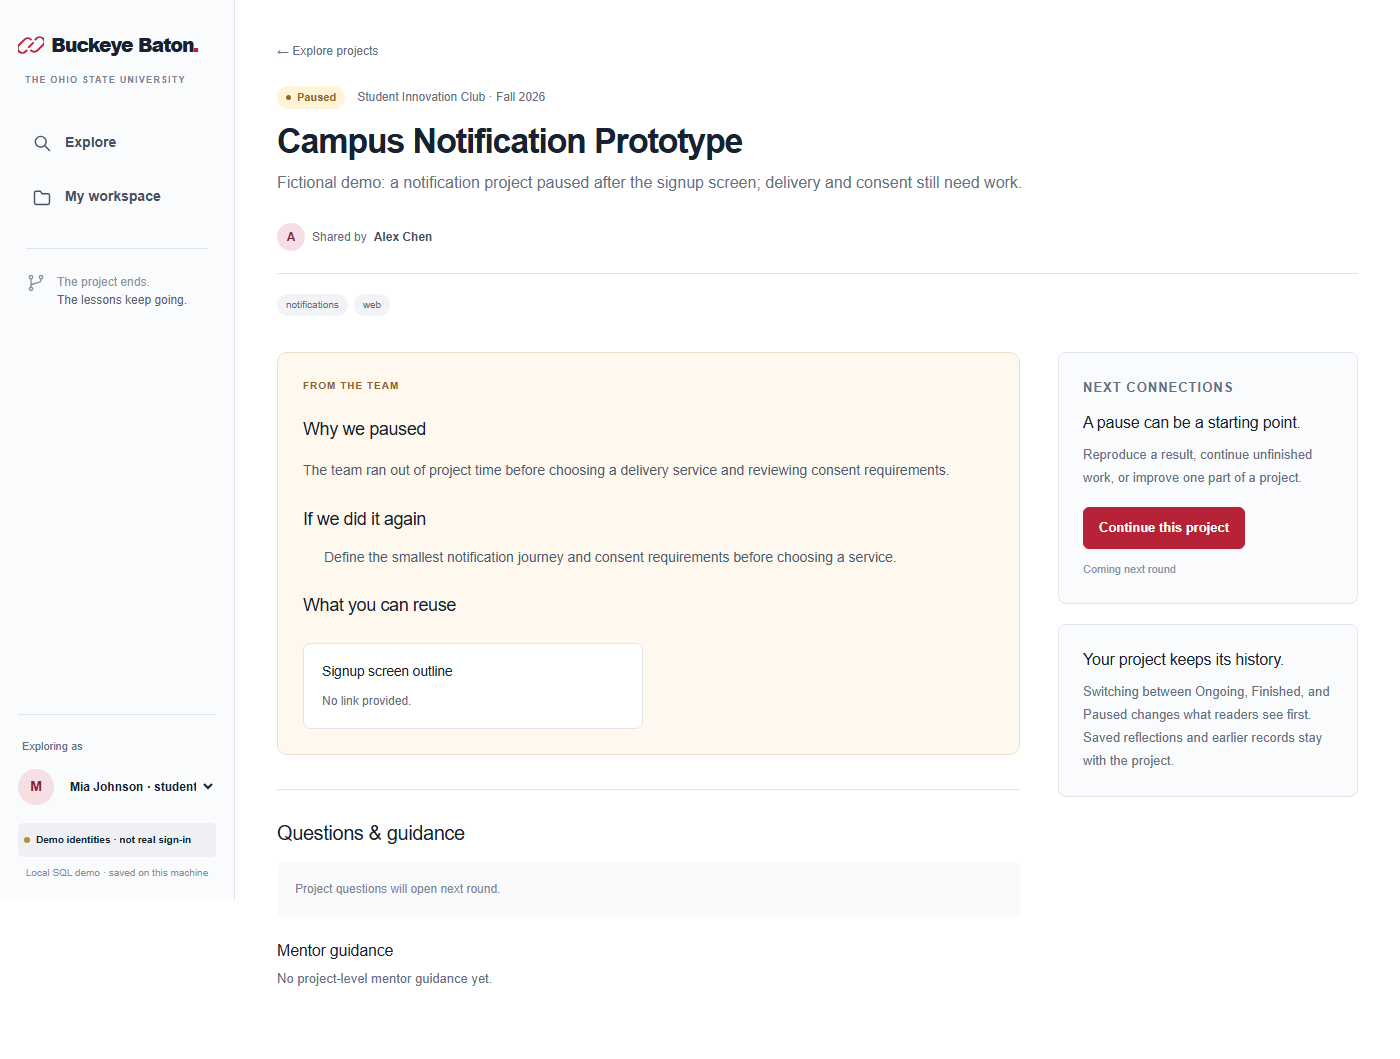
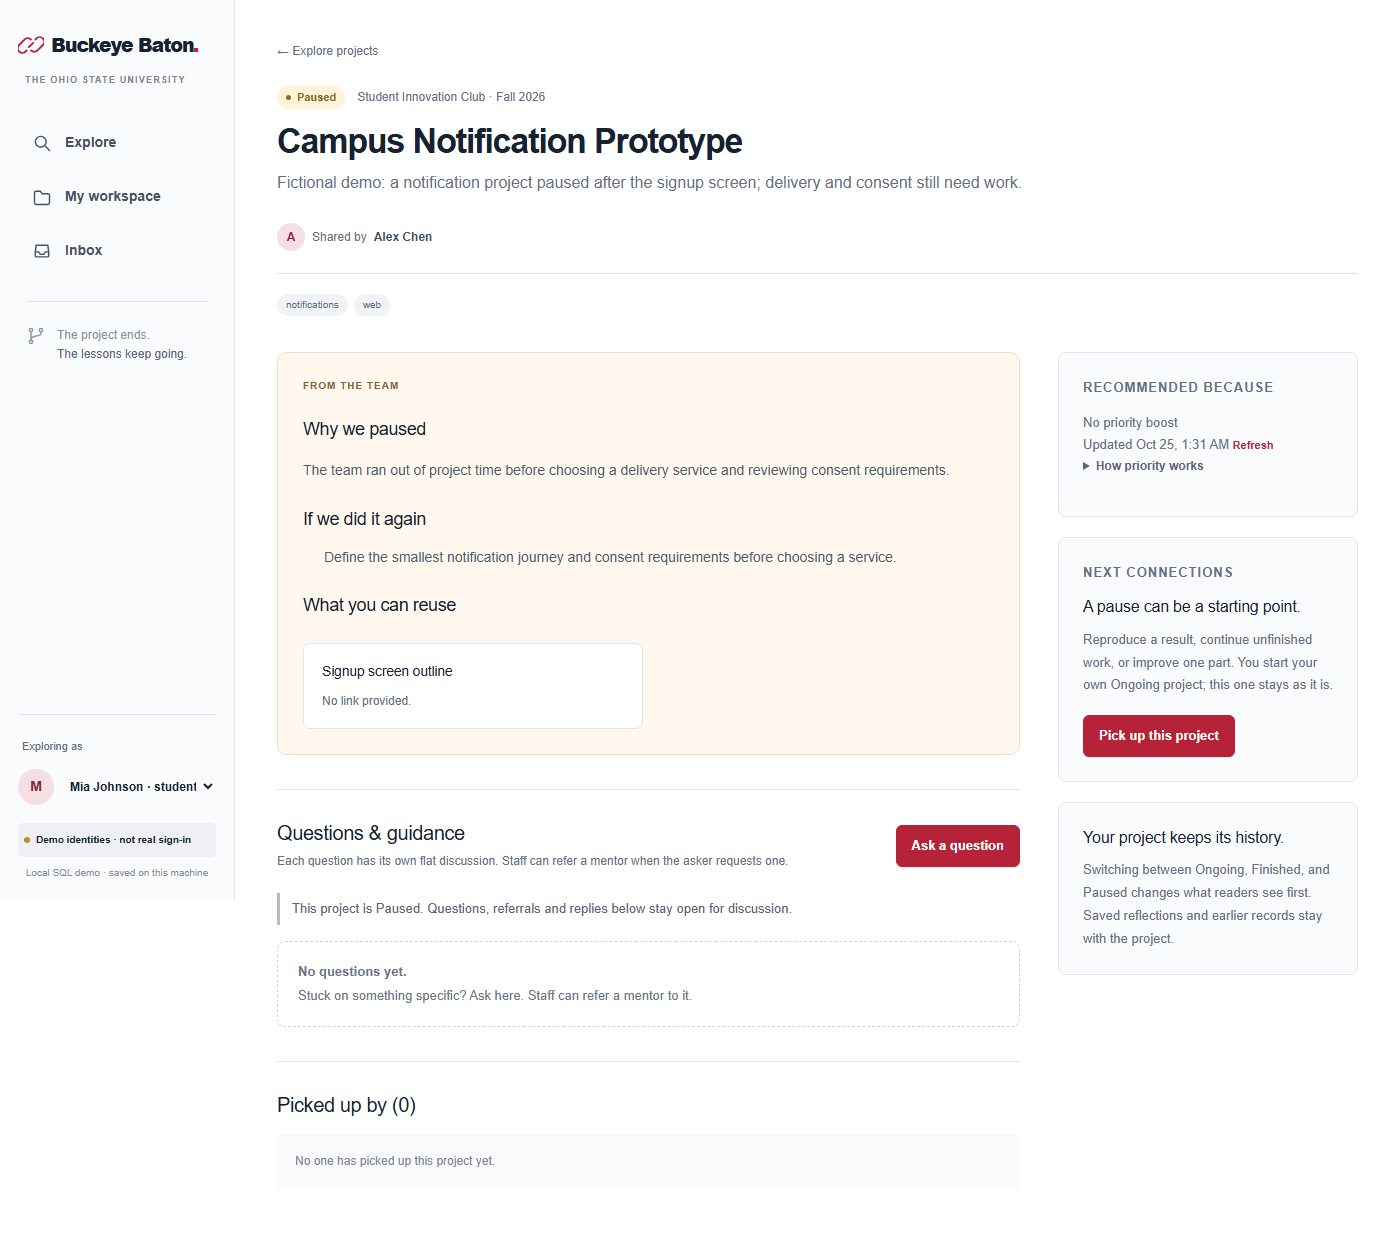
Record preserved-data P4 product revision preview

diff --git a/project-docs/index.html b/project-docs/index.html
@@ -166,7 +166,7 @@
 <!-- claude:overview:pitch:end -->
 
     <!-- claude:overview:status:start -->
-<div class="card" data-updated="2026-10-25"><h3>当前阶段</h3><p>P4产品修订：自动邀请只限接棒，评论删除后其他人的相关通知隐藏。独立3001预览更新后复验；同库、真实模型配置、3000/P3与main保留。</p></div>
+<div class="card" data-updated="2026-10-25"><h3>当前阶段</h3><p>P4产品修订：自动邀请只限接棒，评论删除后其他人的相关通知隐藏。独立3001预览5a5fddf已更新，待用户复验；同库、真实模型配置、3000/P3与main保留。</p></div>
 <!-- claude:overview:status:end -->
 
     <!-- claude:overview:health:start -->
@@ -214,6 +214,7 @@
 <!-- claude:design:spacing:end -->
 
     <!-- claude:design:screenshots:start -->
+<figure><img src="screenshots/p4-inbox-mobile.png" alt="Pickup-only Inbox at390px"><figcaption>2026-10-25 P4修订：Sarah无help邀请；桌面/390px检查通过，无写入。</figcaption></figure>
 <div class="card" data-updated="2026-10-25"><h3>P4预览截图（虚构演示数据）</h3><div class="screenshots"><div class="screenshot"><img src="screenshots/p4-inbox-desktop.png" alt="P4 Inbox invitation desktop"><p class="caption">3001/P4桌面，2026-10-25；邀请仍未接受</p></div><div class="screenshot"><img src="screenshots/p4-inbox-mobile.png" alt="P4 Inbox invitation at390px"><p class="caption">3001/P4，390px，无横向溢出</p></div></div></div>
 
 <div class="card" data-updated="2026-10-24"><h3>预览与验收截图</h3><div class="screenshots"><div class="screenshot"><img src="screenshots/desktop.png" alt="Buckeye Baton desktop"><p class="caption">现有P3预览桌面，2026-10-24</p></div><div class="screenshot"><img src="screenshots/mobile.png" alt="Buckeye Baton mobile"><p class="caption">现有P3预览390px，2026-10-24</p></div></div></div>

diff --git a/docs/P4_PREVIEW.md b/docs/P4_PREVIEW.md
@@ -1,3 +1,21 @@
+# Current P4 preview — product revision (2026-10-25)
+
+- URL: http://127.0.0.1:3001/inbox
+- Actual application source: **5a5fddfa527b2dff509431ad05bcaa36a8c7dc80**; BuildID **zxqkg5OxLuNqffTSgakce**.
+- Active app/build: `C:/Users/23678/.codex/workspaces/buckeye-baton-p4-product-revision`. Do not rebuild, switch or archive while serving.
+- Node PID **40108**, hidden launcher **40512**. Recheck listener before any operation.
+- Same persistent database: `C:/Users/23678/.codex/workspaces/buckeye-baton-p4-review/.data/p4-preview-e2e-737dae5553fa44779b0d1d0ce0ff3459`.
+- Same real OpenAI/gpt-6-luna configuration loaded via Node `--env-file` from old p4-review `.env.local`; no key printed/copied/committed. Old p4-review remains protected as the database/config holder. **Zero real model calls for this revision.**
+- Runner enabled, pickup invitations only. Legacy help invitations are hidden; pending ones settle on check. Manual referrals and activity remain.
+- Before restarting, stopped only verified3001 PID14344 and copied the offline database to old p4-review `.data/p4-before-product-revision-20261025`.
+- After restart, compared all8 projects, full project details, discussions and private introduction states: **exactly unchanged**. Sarah's legacy help invitation is absent; runner enabled with successful check and no error. Live Inbox desktop/390px checks pass without writes.
+- 3000/P3 PID38224 unchanged. Main and PR#3 not merged; no deployment.
+- Current rules and final checks: [P4_PRODUCT_REVISION.md](P4_PRODUCT_REVISION.md). Runtime manifest copied to active app, old config/database holder and coordinator `.data/p4-preview-runtime.json`.
+
+---
+
+The following is historical setup evidence for the previous372646c preview; use the current runtime above.
+
 # P4 独立手动验收预览
 
 **AI已启用（2026-10-25）：** 用户自行填写P4 `.env.local` 后，已只重启3001，以Node `--env-file`加载本地配置。真实OpenAI / gpt-6-luna，非mock；一次生成返回200、1句/2标签，仅保存Mia的Campus Map Kiosk未发布草稿，没有确认或更改公开卡片。安全结果见[evidence/P4_AI_ENABLE_RESULT.json](evidence/P4_AI_ENABLE_RESULT.json)。key未打印、复制或提交Git；以后运行回归仍用mock，不能把此单次验收当持续真实调用授权。

diff --git a/docs/P4_PRODUCT_REVISION.md b/docs/P4_PRODUCT_REVISION.md
@@ -20,3 +20,7 @@ Final results and preview identity are recorded below after execution. Browser p
 - Browser: 23/23 passed on production next start, including pickup-only runner before any page opens, deletion by owner/author, pagination refresh and superseded Load more, identity journey and 390px.
 - AI calls: zero real calls for this revision; existing AI regressions used local mock.
 - No schema/dependency changes.
+
+## Preserved-data preview
+
+Live at http://127.0.0.1:3001/inbox, application5a5fddf. Same database and real model configuration, zero new model calls. All8 projects, full project details, discussions and private introduction states compared exactly equal before/after restart. Sarah help invitations hidden; runner healthy and enabled. 3000/P3 and main unchanged. See P4_PREVIEW.md for current paths and process snapshot.

diff --git a/AGENTS.md b/AGENTS.md
@@ -1,3 +1,5 @@
+Active P4 preview now runs product revision5a5fddf at3001, app/build buckeye-baton-p4-product-revision. Old buckeye-baton-p4-review is still the protected database and .env.local holder; do not remove/archive it. Read current docs/P4_PREVIEW.md and runtime manifest; historical372646c paths/PIDs below are superseded.
+
 Current P4 product override: docs/P4_PRODUCT_REVISION.md supersedes conflicting original P4 rules. Invitations are pickup-only; notifications for removed posts are hidden from recipients except the remover.
 
 # Buckeye Baton — agent entry
